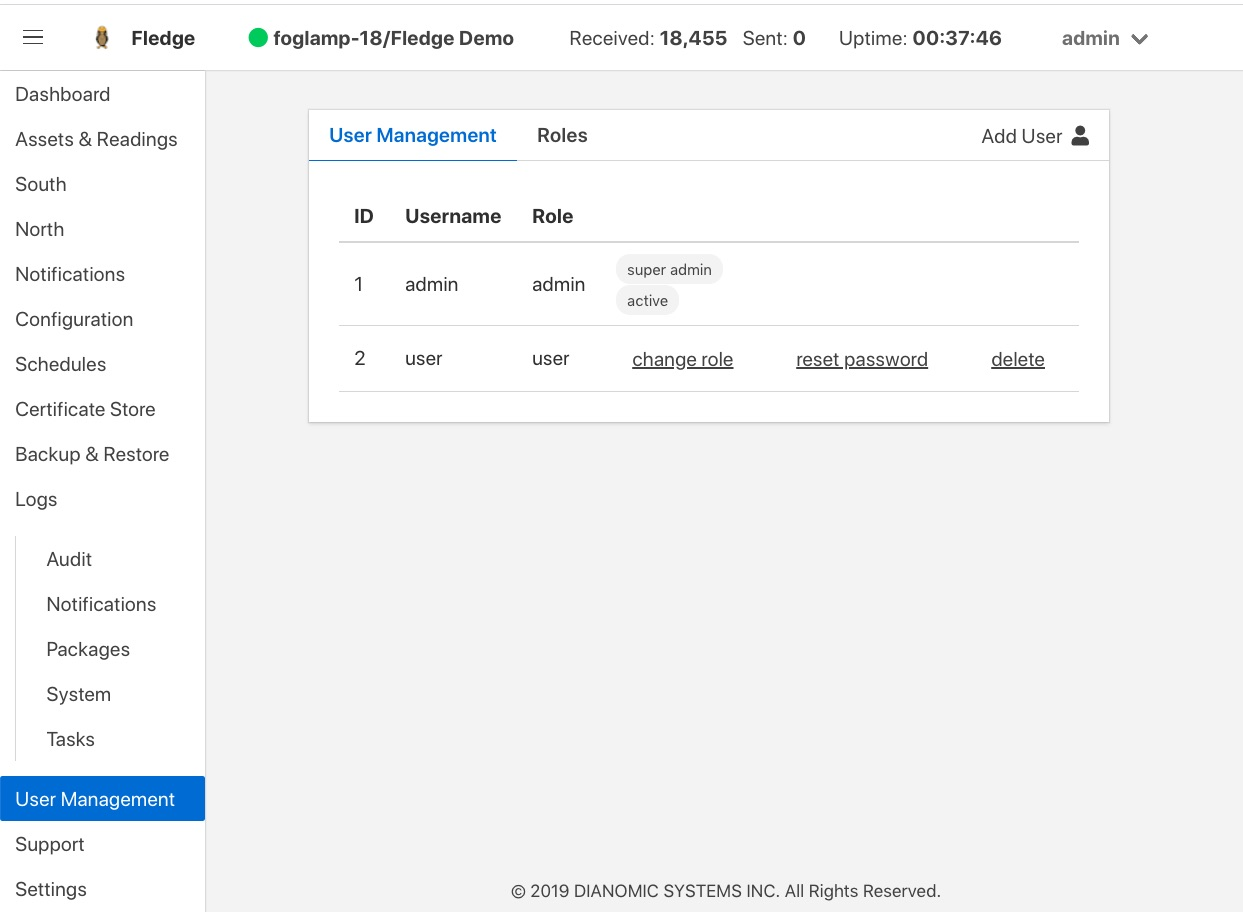
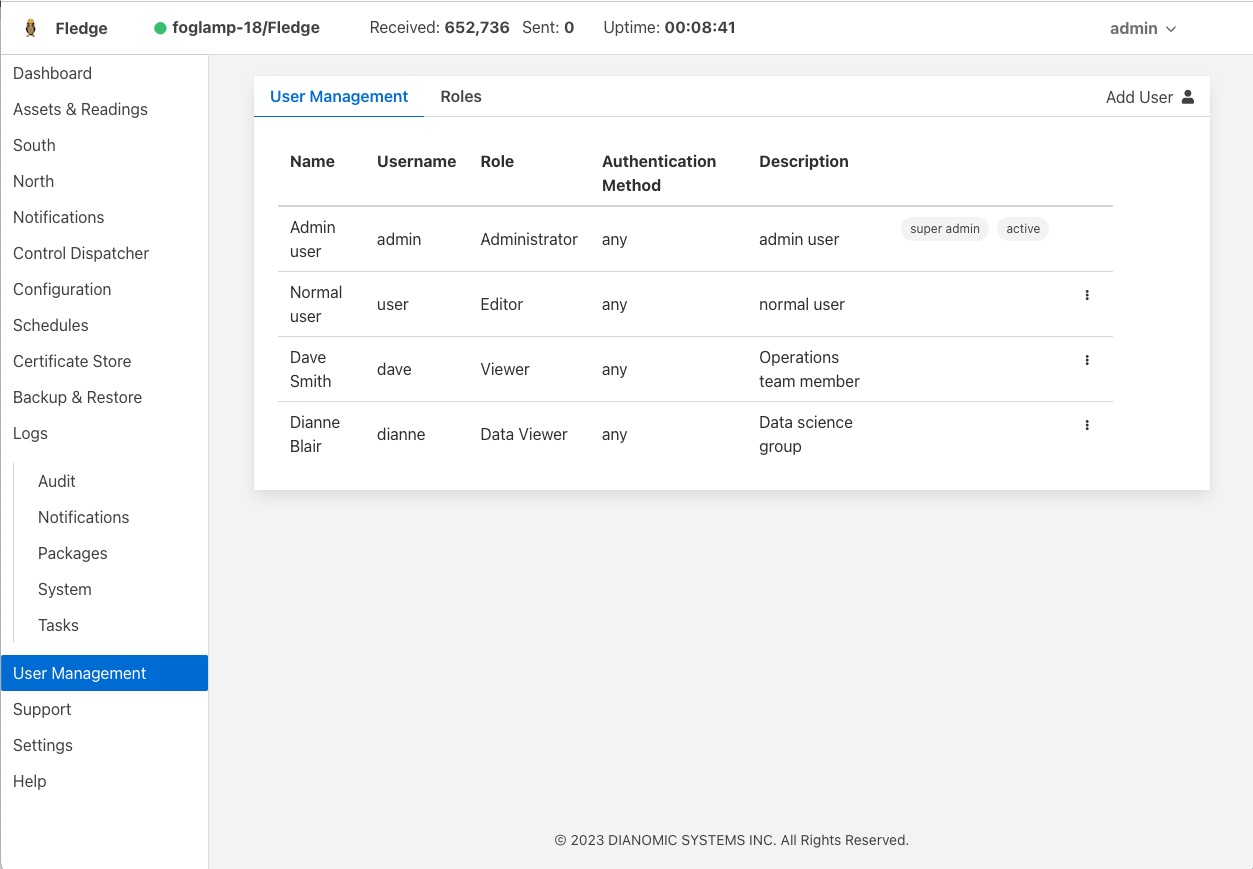
FOGL-7343 Update user documentation

diff --git a/docs/securing_fledge.rst b/docs/securing_fledge.rst
@@ -11,6 +11,7 @@
 .. |password_rotation| image:: images/password_rotation.jpg
 .. |user_management| image:: images/user_management.jpg
 .. |add_user| image:: images/add_user.jpg
+.. |update_user| image:: images/update_user.jpg
 .. |delete_user| image:: images/delete_user.jpg
 .. |change_role| image:: images/change_role.jpg
 .. |reset_password| image:: images/reset_password.jpg
@@ -48,7 +49,7 @@ After enabling HTTPS and selecting save you must restart Fledge in order for the
 
 *Note*: if using the default self-signed certificate you might need to authorise the browser to connect to IP:PORT.
 Just open a new browser tab and type the URL https://YOUR_FLEDGE_IP:1995
-
+;
 Then follow browser instruction in order to allow the connection and close the tab.
 In the Fledge GUI you should see the green icon (Fledge is running).
 
@@ -143,10 +144,12 @@ The user management pages allows
   - Resetting user passwords.
   - Changing the role of a user.
 
-Fledge currently supports two roles for users,
+Fledge currently supports four roles for users,
 
-  - **admin**: a user with admin role is able to fully configure Fledge and also manage Fledge users
-  - **user**: a user with this role is able to configure Fledge but can not manage users
+  - **Administrator**: a user with admin role is able to fully configure Fledge and also manage Fledge users
+  - **Editor**: a user with this role is able to configure Fledge but can not manage users
+  - **Viewer**: a user that can only view the configuration of the Fledge instance
+  - **Data viewer**: a user that can only view the data in Fledge and not the configuration of Fledge itself
 
 Adding Users
 ------------
@@ -158,6 +161,15 @@ To add a new user from the *User Management* page select the *Add User* icon in 
 +------------+
 
 You can select a role for the new user, a user name and an initial password for the user. Only users with the role *admin* can add new users.
+
+Update User Details
+-------------------
+
+The edit user option allows the name, authentication method and description of a user to be updated.
+
++---------------+
+| |update_user| |
++---------------+
 
 Changing User Roles
 -------------------
